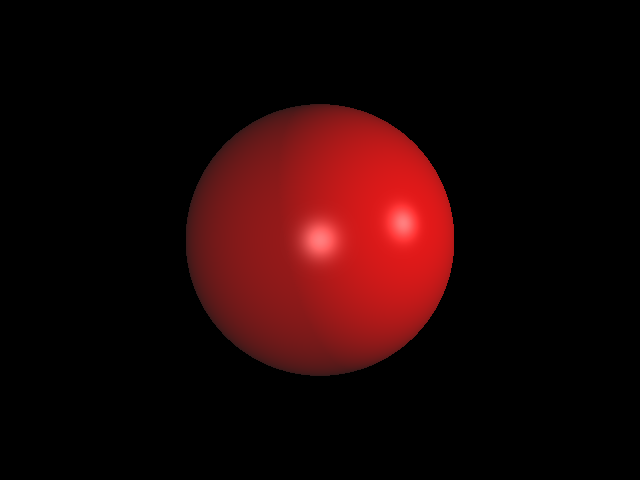
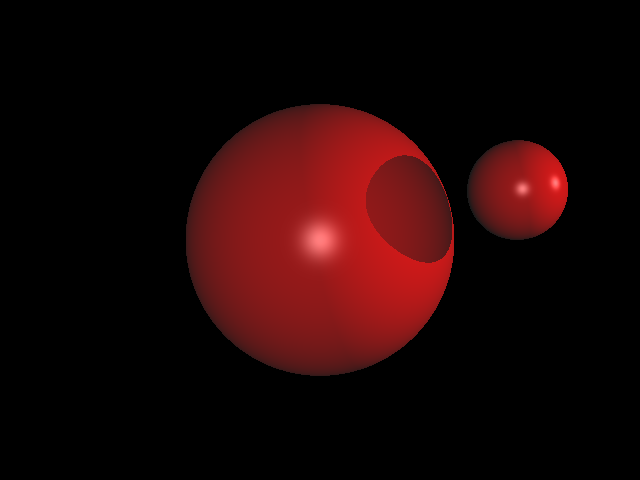
readded and adjusted intersection offset

Changed region(s): [[0.5625, 0.2812, 0.9062, 0.5625]]

diff --git a/RaytracerHW/Src/Sphere.cpp b/RaytracerHW/Src/Sphere.cpp
@@ -41,7 +41,7 @@ auto Sphere::Intersect(const Ray& ray) const -> std::optional<Intersection>
 
     const auto intersectPoint = ray.mOrigin + ray.mDir * t;
     const auto normal = intersectPoint - mCenter;
-    return Intersection{ *this, { intersectPoint, normal, t } };
+    return Intersection{ *this, { intersectPoint + (normal * Config::Epsilon), normal, t } };
 }
 
 auto Sphere::GetABCDiscriminant(const Ray& ray) const -> std::tuple<float, float, float, float>

diff --git a/RaytracerHW/Src/Triangle.cpp b/RaytracerHW/Src/Triangle.cpp
@@ -43,5 +43,5 @@ auto Triangle::Intersect(const Ray& ray) const -> std::optional<Intersection>
     const glm::vec3 intersectPoint = ray.mOrigin + ray.mDir * t;
     const auto normal = glm::normalize(glm::cross((mV2 - mV0), (mV1 - mV0)));
 
-    return Intersection{ *this, { intersectPoint, normal, t } };
+    return Intersection{ *this, { intersectPoint + (normal * Config::Epsilon), normal, t } };
 }

diff --git a/RaytracerHW/Src/Config.hpp b/RaytracerHW/Src/Config.hpp
@@ -40,7 +40,7 @@ public:
 public:
     // clang-format off
     static constexpr float Epsilon = 0.0001f;
-    static constexpr float TMin = 0.0001f;
+    static constexpr float TMin = 0.0005f;
     static constexpr float TMax = 100000.0f;
     static constexpr uint8_t ProgressBarSize = 50;
 
